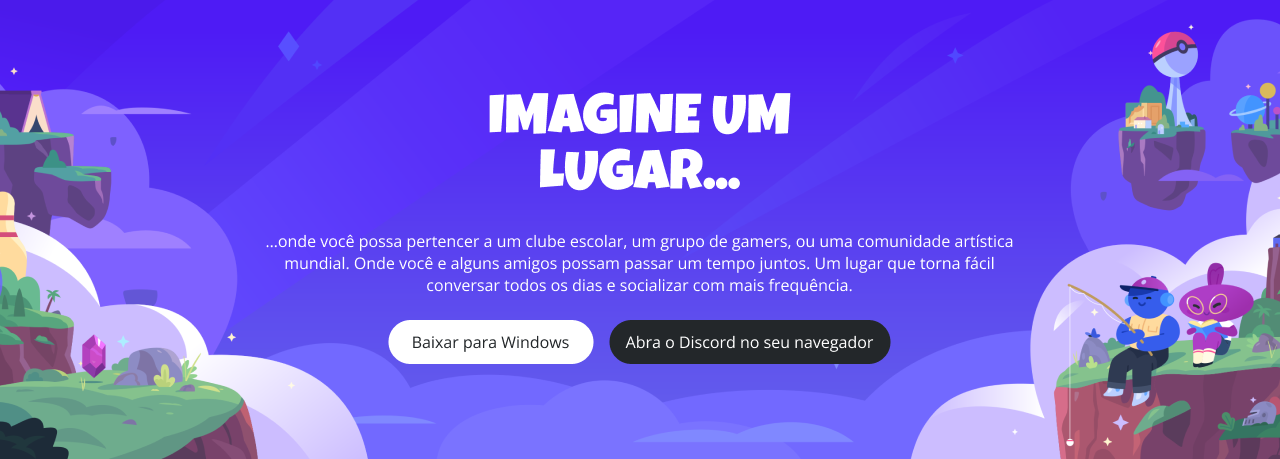
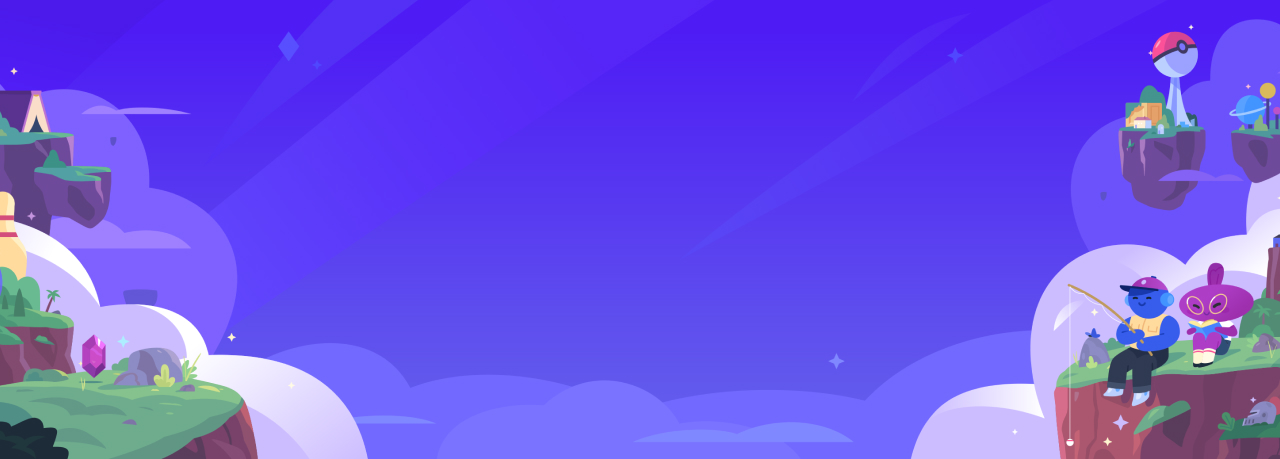
adding web version and responsive adjustments

Changed region(s): [[0.2188, 0.5185, 0.8125, 0.6405], [0.375, 0.183, 0.625, 0.427], [0.2812, 0.671, 0.7188, 0.793]]

diff --git a/index.html b/index.html
@@ -26,25 +26,33 @@
     <main>
       <section class="Section1">
         <img class="Section1Image" src="./assets/images/image-1.png" alt="Crie grupos de chat personalizados">
-        <h2 class="Section1H2">Crie um espaço controlado por convite onde você se sinta em casa</h2>
-        <p class="Section1P">Os servidores Discord são organizados em canais com assuntos para vocês colaborarem, compartilharem ou simplesmente falarem do dia sem entupir um chat geral.</p>
+        <div class="sectionText">
+          <h2 class="Section1H2">Crie um espaço controlado por convite onde você se sinta em casa</h2>
+          <p class="Section1P">Os servidores Discord são organizados em canais com assuntos para vocês colaborarem, compartilharem ou simplesmente falarem do dia sem entupir um chat geral.</p>
+        </div>
       </section>
 
       <section class="Section2">
         <img class="Section2Image" src="./assets/images/image-2.png" alt="Compartilhe com uma ligação em grupo com os canais de voz">
-        <h2 class="Section2H2">Aqui é fácil se encontrar</h2>
-        <p class="Section2P">Entre no canal de voz quando estiver à toa. Amigos no mesmo servidor podem te ver e entrar imediatamente, sem nem ter que fazer a chamada.</p>
+        <div class="sectionText">
+          <h2 class="Section2H2">Aqui é fácil se encontrar</h2>
+          <p class="Section2P">Entre no canal de voz quando estiver à toa. Amigos no mesmo servidor podem te ver e entrar imediatamente, sem nem ter que fazer a chamada.</p>
+        </div>
       </section>
 
       <section class="Section3">
         <img class="Section3Image" src="./assets/images/image-3.png" alt="Encontre quem está online">
-        <h2 class="Section3H2">Para poucos e para muitos</h2>
-        <p class="Section3P">Organize qualquer comunidade com ferramentas de moderação e acesso personalizado a membros. Dê poderes especiais aos membros, monte canais privados e muito mais.</p>
+        <div class="sectionText">
+          <h2 class="Section3H2">Para poucos e para muitos</h2>
+          <p class="Section3P">Organize qualquer comunidade com ferramentas de moderação e acesso personalizado a membros. Dê poderes especiais aos membros, monte canais privados e muito mais.</p>
+        </div>  
       </section>
 
       <section class="Section4">
-        <h1 class="Section4H2">TECNOLOGIA DE CONEXÃO CONFIÁVEL</h1>
-        <p class="Section4P">Voz e vídeo de baixa latência, para você conversar como se estivesse na mesma sala. Dê um joinha por vídeo, veja amigos transmitirem a jogatina do dia ou junte uma galera pra desenhar na tela compartilhada.</p>
+        <div class="sectionText">
+          <h1 class="Section4H2">TECNOLOGIA DE CONEXÃO CONFIÁVEL</h1>
+          <p class="Section4P">Voz e vídeo de baixa latência, para você conversar como se estivesse na mesma sala. Dê um joinha por vídeo, veja amigos transmitirem a jogatina do dia ou junte uma galera pra desenhar na tela compartilhada.</p>
+        </div>
         <img class="Section4Image" src="./assets/images/image-4.png" alt="Faça chamadas de vídeo">
       </section>
     </main>

diff --git a/assets/css/style.css b/assets/css/style.css
@@ -15,61 +15,119 @@ p {
   font-weight: 400;
 }
 
-@media(max-width:428px) {
+
+header {
+  background-image: url(../images/Background.png);
+  background-size: cover;
+  display: flex;
+  flex-direction: column;
+  align-items: center;
+  padding: 70px 25px 70px 25px;
+  gap: 24px;
+  color: white;
+}
+
+.headerP {
+  max-width: 760px;
+  text-align: center;
+}
+
+.buttons {
+  display: flex;
+  align-items: center;
+  gap: 15px;
+}
+
+.headerButtonDownload, .headerButtonNav {
+  height: 55px;
+  background-color: white;
+  border-radius: 50px;
+  font-size: 16px;
+  display: flex;
+  align-items: center;
+  padding: 25px;
+}
+
+.headerButtonNav {
+  background-color: #23272A;
+  color: white;
+}
+
+main {
+  display: flex;
+  flex-direction: column;
+  align-items: center;
+}
+
+section {
+  display: flex;
+  align-items: center;
+  justify-content: center;
+  padding: 30px 25px 30px 25px;
+  gap: 25px;
+  max-width: 900px;
+}
+
+.sectionText {
+  display: flex;
+  flex-direction: column;
+  gap: 20px;
+}
+
+.Section2, .Section4 {
+  background-color: #F6F6F6;
+}
+
+.Section2 {
+  flex-direction: row-reverse;
+}
+
+.Section4 {
+  flex-direction: column;
+  justify-content: center;
+  align-items: center;
+}
+
+.Section4H2, .Section4P {
+  text-align: center;
+}
+
+footer {
+  background-color: #23272A;
+  display: flex;
+  justify-content: center;
+  padding: 45px;
+}
+
+.footerLogo {
+  height: 45px;
+}
+
+
+@media(max-width:760px) {
   header {
     background-image: url(../images/Background-mobile.png);
     background-size: cover;
-    display: flex;
-    flex-direction: column;
-    padding: 70px 25px 70px 25px;
-    gap: 24px;
-    color: white;
+    align-items: normal;
   }
 
   .buttons {
-    display: flex;
     flex-direction: column;
-    align-items: center;
-    gap: 15px;
   }
 
-  .headerButtonDownload {
-    height: 55px;
-    background-color: white;
-    border-radius: 50px;
+  .headerButtonDownload, .headerButtonNav {
     width: 100%;
-    font-size: 16px;
-  }
-
-  .headerButtonNav {
-    height: 55px;
-    background-color: #23272A;
-    color: white;
-    border-radius: 50px;
-    width: 100%;
-    font-size: 16px;
+    display: flex;
+    justify-content: center;
   }
 
   section {
-    display: flex;
     flex-direction: column;
-    padding: 30px 25px 30px 25px;
-    gap: 25px;
   }
 
-  .Section2, .Section4 {
-    background-color: #F6F6F6;
-  }
-
-  footer {
-    background-color: #23272A;
-    display: flex;
-    justify-content: center;
-    padding: 45px;
-  }
-
-  .footerLogo {
-    height: 45px;
+  .Section2 {
+    flex-direction: column;
   }
 
 }
+
